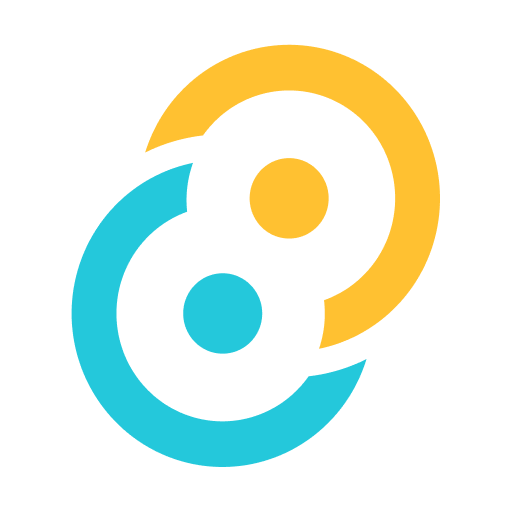
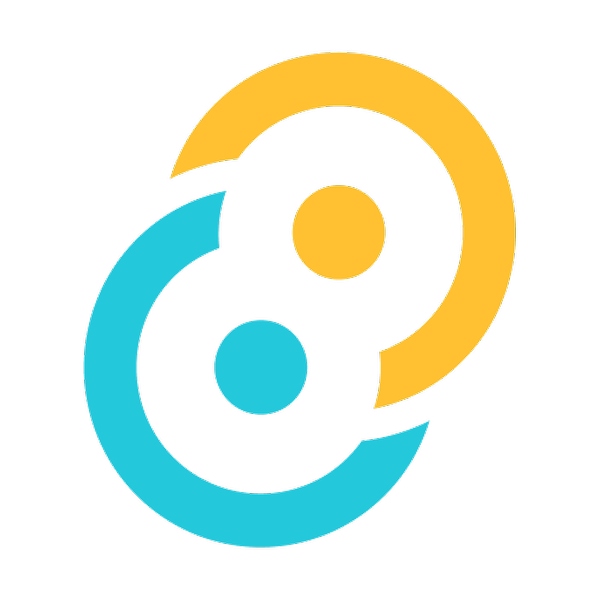
:zap: resize image too

Changed region(s): [[0.8438, 0.375, 0.875, 0.4062]]

diff --git a/src-tauri/src/main.rs b/src-tauri/src/main.rs
@@ -1,7 +1,7 @@
 // Prevents additional console window on Windows in release, DO NOT REMOVE!!
 #![cfg_attr(not(debug_assertions), windows_subsystem = "windows")]
 
-use rimage::{config::{Codec, EncoderConfig}, error::EncoderError, image::{DynamicImage, ImageResult, RgbaImage}, Decoder, Encoder};
+use rimage::{config::{Codec, EncoderConfig, ResizeConfig, ResizeType}, error::EncoderError, image::{DynamicImage, ImageResult, RgbaImage}, Decoder, Encoder};
 use std::fs::File;
 
 // Learn more about Tauri commands at https://tauri.app/v1/guides/features/command
@@ -20,9 +20,14 @@ fn greet(name: &str) -> String {
     let file = File::create("output.png").expect("Failed to create file");
 
     // Configure encoder with settings like file type, compression, etc
+    let resize_config = ResizeConfig::new(ResizeType::Lanczos3)
+        .with_width(800)
+        .with_height(600);
+
     let config = EncoderConfig::new(Codec::Png)
         .with_quality(10.0)
-        .unwrap();
+        .expect("Quality didn't work")
+        .with_resize(resize_config);
     let encoder = Encoder::new(file, image).with_config(config);
 
     // Run encoder
